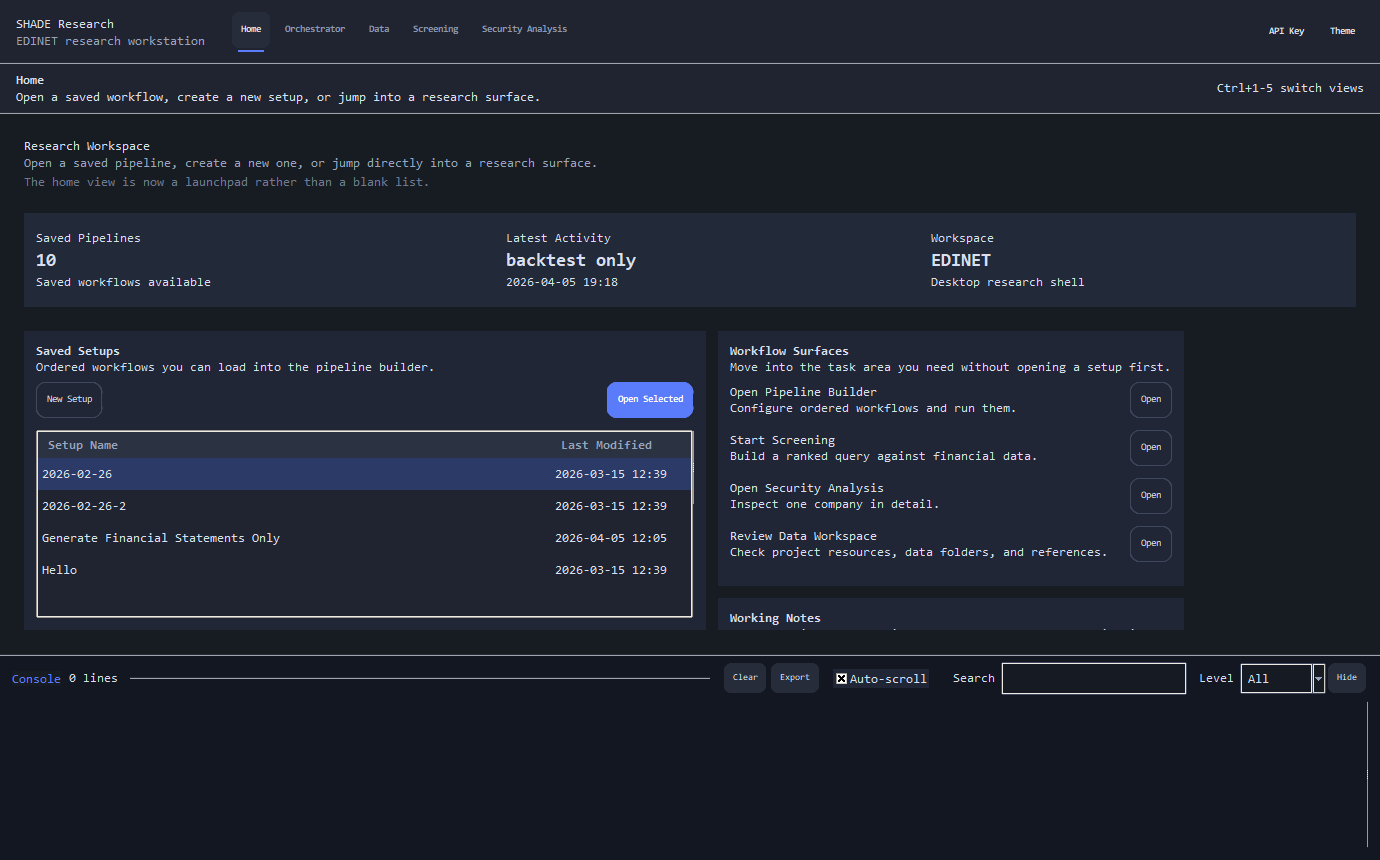
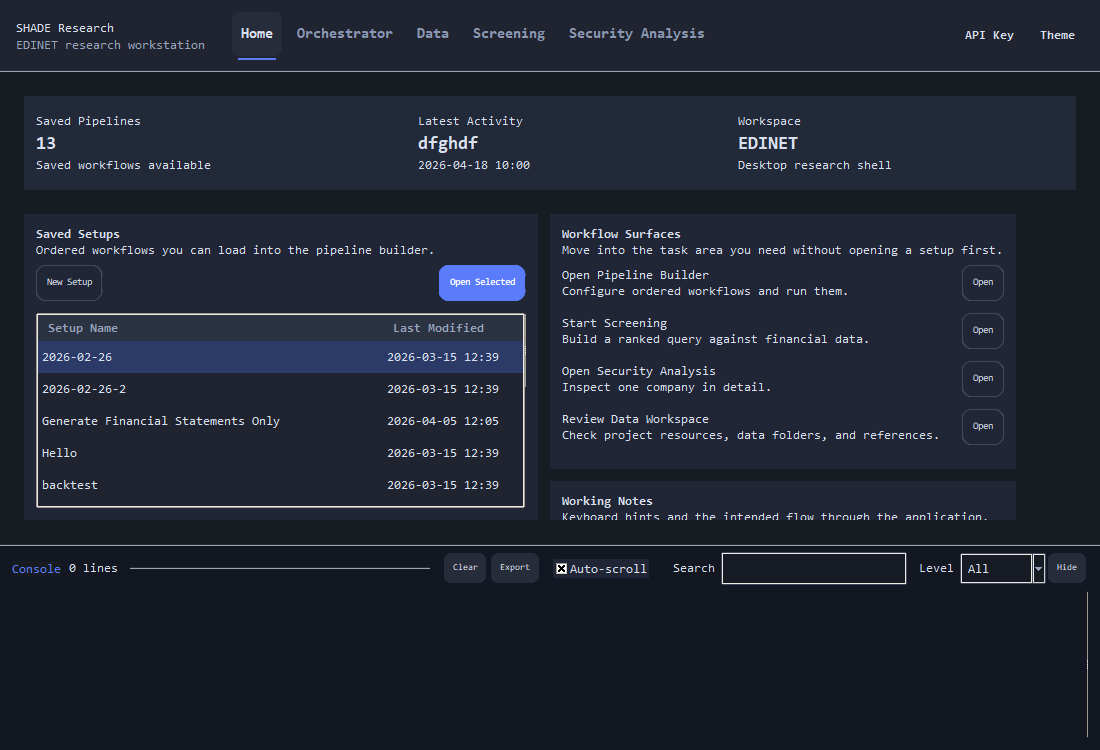
docs: Update Application Details and Readme with current project status and UI enhancements

diff --git a/docs/Application Details.md b/docs/Application Details.md
@@ -1,8 +1,8 @@
 
 # Python Source File Reference (Living Document)
 
-Last updated: 2026-04-06
-- Central reference for runtime/test Python modules (`src/`) and top-level scripts.
+Last updated: 2026-04-19
+- Central reference for runtime/test Python modules (`src/`), Tk UI modules (`ui_tk/`), and top-level scripts.
 - For each file: what it owns, available functions, input/output contract, and key dependencies/calls.
 - Designed to be updated continuously as functions are added/removed/changed.
 
@@ -24,6 +24,18 @@ Suggested per-function format:
 	- Inputs: ...
 	- Output: ...
 	- Calls/Dependencies: ...
+
+---
+
+## Current project status
+
+- Default interface: the Tk desktop shell launched by `python main.py` is the primary maintained UI.
+- Maintained top-level views: `Home`, `Orchestrator`, `Data`, `Screening`, and `Security Analysis`.
+- CLI mode remains supported through `python main.py --cli` for headless pipeline execution.
+- Architecture status: `src.orchestrator` is a thin dispatcher; backend modules remain largely decoupled from `Config` and are called with explicit parameters.
+- Mature user-facing workflows: ingestion, ETL, translation, ratio generation, backtesting, screening, and security analysis all have dedicated test coverage.
+- Partial surface: the Data Workspace is operational for navigation/resource inspection, but it is not yet a full analytical data browser.
+- Visual review workflow: screenshot capture tests save current UI images under `data/mockups/screenshots/`, and the curated README copies live under `docs/images/`.
 
 ---
 
@@ -178,6 +190,12 @@ Responsibility: ETL and transformation of EDINET raw data into normalized financ
 		- Output: None (writes/updates DB tables: `FinancialStatements`, `IncomeStatement`, `BalanceSheet`, `CashflowStatement`).
 		- Calls/Dependencies: `_load_financial_statement_mappings`, `_collect_financial_statement_filters`, `_resolve_table_name_in_schema`, `_build_source_relevance_predicate`, `_create_financial_statement_tables`, `_insert_base_financial_statements`, `_insert_statement_table_rows`, `conn.execute`, `conn.executescript`, `conn.commit`, `conn.close`, `logger.info`, `logger.warning`.
 
+	- `def populate_business_descriptions_en(self, target_database, providers_config, table_name="FinancialStatements", docid_column="docID", source_column="DescriptionOfBusiness", target_column="DescriptionOfBusiness_EN", source_language="ja", target_language="en", overwrite=False, batch_size=25) -> None`
+		- Purpose: Populate translated English business descriptions in the target statements table using an ordered fallback provider list.
+		- Inputs: `target_database`, `providers_config`, optional table/column names, source/target languages, `overwrite`, `batch_size`.
+		- Output: None (updates `target_column` in place, creating it when missing).
+		- Calls/Dependencies: `src.description_translation.load_translation_providers`, `src.description_translation.translate_text_with_providers`, `_resolve_table_name_in_schema`, `_resolve_column_name`, `_ensure_typed_table_columns`, `conn.execute`, `conn.commit`, `conn.close`, `logger.info`, `logger.warning`.
+
 	- `def generate_ratios(self, source_database, target_database, formulas_config, overwrite=False, batch_size=5000) -> None`
 		- Purpose: Compile configured formulas into `PerShare`/`Valuation`/`Quality` tables, resolving formula dependencies and executing updates in batches.
 		- Inputs: `source_database`, `target_database`, `formulas_config` (path), optional `overwrite`, `batch_size`.
@@ -195,6 +213,32 @@ Responsibility: ETL and transformation of EDINET raw data into normalized financ
 		- Inputs: `xsd_file` (path to XSD), `table_name`, optional `connection`, optional `db_path` (required when `connection` is not provided).
 		- Output: None (writes taxonomy rows to DB table).
 		- Calls/Dependencies: `ET.parse`, `_create_table`, `_insert_data`, `_adjust_string`, `conn.commit`, `conn.close`.
+
+---
+
+### [src/description_translation.py](src/description_translation.py)
+
+Responsibility: Ordered-fallback translation provider loading, text chunking, and provider execution used by `populate_business_descriptions_en`.
+
+- Provider types: `LibreTranslateProvider`, `MyMemoryProvider`, and `ArgosTranslateProvider`.
+- `class TranslationProviderConfig`
+	- Purpose: Immutable runtime configuration for a translation provider instance.
+
+- `def split_text_chunks(text: Any, chunk_char_limit: int = 700) -> list[list[str]]`
+	- Purpose: Normalize and split source text into paragraph-aware translation chunks that preserve sentence boundaries where possible.
+	- Inputs: raw `text`, optional `chunk_char_limit`.
+	- Output: Nested list of text chunks grouped by paragraph.
+
+- `def load_translation_providers(config_path: str) -> tuple[list[TranslationProvider], dict[str, Any]]`
+	- Purpose: Load enabled providers and shared translation settings from JSON.
+	- Inputs: `config_path` to the provider configuration file.
+	- Output: `(providers, settings)` where `settings` currently includes values such as `chunk_char_limit` and `row_delay_seconds`.
+
+- `def translate_text_with_providers(text: Any, providers: list[TranslationProvider], *, source_language: str = "ja", target_language: str = "en", chunk_char_limit: int = _DEFAULT_CHUNK_CHAR_LIMIT, session: requests.Session | None = None, retire_failed_providers: bool = False, log_context: str | None = None, log_provider_activity: bool = False, slow_request_warning_seconds: float | None = 10.0) -> tuple[str, str]`
+	- Purpose: Translate text using ordered provider fallback and return the translated text plus the provider name that succeeded.
+	- Inputs: source `text`, active `providers`, language options, chunk size, optional shared HTTP session, and logging/runtime controls.
+	- Output: `(translated_text, provider_name)`.
+	- Calls/Dependencies: `_clean_text_block`, `split_text_chunks`, provider `translate()`, `_retire_provider`, `requests.Session`, `logger.info`, `logger.warning`.
 
 ---
 
@@ -359,7 +403,7 @@ Responsibility: CLI / GUI entry point dispatcher.
 	- Calls/Dependencies: `setup_logging`, `orchestrator.run`.
 
 - `def _run_gui() -> None`
-	- Purpose: Launch the **default** Tkinter terminal-style GUI.
+	- Purpose: Launch the default Tk desktop GUI.
 	- Calls/Dependencies: `ui_tk.run_tk_app`.
 
 - Dispatch: `--cli` → `_run_cli()`, default → `_run_gui()`.
@@ -372,9 +416,7 @@ Responsibility: CLI / GUI entry point dispatcher.
 - Fill `Inputs`/`Output` sections with precise types and examples for frequently-changed helpers.
 - Add `Calls/Dependencies` entries when introducing new inter-module calls.
 
-If you'd like, I can now:
-- populate exact function signatures for each module by scanning the `src/` and `ui_tk/` files and inserting them here, or
-- convert private helpers into abbreviated summaries and keep public API entries fully expanded.
+This reference is intentionally concise. Expand signatures, examples, and dependency notes when you touch the corresponding modules.
 
 ---
 
@@ -385,13 +427,16 @@ If you'd like, I can now:
 Responsibility: Tk root bootstrap, view switching, event loop, and log handler wiring.
 
 `class App`
-	- Purpose: Top-level application controller; owns the Tk root, tab bar, log panel, and view switching.
+	- Purpose: Top-level application controller; owns the Tk root, branded top bar, log panel, view switching, and cross-view drill-ins.
 
 	- `def __init__(self, root: tk.Tk) -> None`
-		- Purpose: Initialise root window, apply theme, build layout (tab bar, views, log panel), wire log handler.
+		- Purpose: Initialise the root window, apply the active theme, build the shell layout, wire the log handler, and register `Ctrl+1..5` shortcuts.
 
 	- `def switch_view(self, name: str) -> None`
 		- Purpose: Switch between Home / Orchestrator / Data / Screening / Security Analysis views. Views are lazily created on first access.
+
+	- `def show_security_analysis(self, record: dict, db_path: str | None = None) -> None`
+		- Purpose: Switch to Security Analysis and open a company record selected from another view (currently the Screening results grid).
 
 - `def run_tk_app() -> None`
 	- Purpose: Public entry point — creates `Tk` root, instantiates `App`, and starts `root.mainloop()`.
@@ -401,12 +446,18 @@ Responsibility: Tk root bootstrap, view switching, event loop, and log handler w
 
 ### [ui_tk/style.py](../ui_tk/style.py)
 
-Responsibility: Terminal-style dark theme tokens and ttk.Style configuration.
+Responsibility: Dark/light theme tokens and ttk.Style configuration for the Tk desktop shell.
 
-- Constants: `COLORS` (dict — bg, surface, border, text, text_dim, accent, success, warning, error, highlight, input_bg), `MONO_FAMILY`, `FONT_MONO`, `FONT_MONO_BOLD`, `FONT_HEADING`, `FONT_SMALL`, `PAD`.
+- Constants: `COLORS` / `theme` (live palette dicts), typography tokens (`FONT_UI`, `FONT_UI_BOLD`, `FONT_HEADING`, `FONT_TITLE`, `FONT_SMALL`, etc.), and geometry tokens (`PAD`, `SHELL_PAD`, button radii).
+
+- `def is_dark() -> bool`
+	- Purpose: Return whether the active theme mode is dark.
+
+- `def toggle_theme(root: tk.Tk) -> str`
+	- Purpose: Switch between dark and light mode and re-apply ttk styles.
 
 - `def apply_theme(root: tk.Tk) -> ttk.Style`
-	- Purpose: Apply the terminal dark theme to the root window and all ttk widget styles (using "clam" base).
+	- Purpose: Apply the active theme to the root window and all ttk widget styles (using "clam" base).
 	- Inputs: `root`
 	- Output: Configured `ttk.Style`.
 
@@ -474,9 +525,10 @@ The step field registry (`STEP_FIELD_DEFINITIONS`) is the single source of truth
 
 - `def screening_get_metrics(db_path: str) -> dict[str, list[str]]` — Return available screening metrics.
 - `def screening_get_periods(db_path: str) -> list[str]` — Return available period years.
-- `def screening_run(db_path, criteria, columns, period, sort_by, sort_order) -> pd.DataFrame` — Run a screening query.
+- `def screening_run(db_path, criteria, columns, period, sort_by, sort_order, ranking_algorithm="none", ranking_rules=None) -> pd.DataFrame` — Run a screening query with optional weighted ranking.
 - `def screening_export(df, output_path) -> str` — Export results to CSV.
-- `def screening_save(name, criteria, columns, period) -> Path` — Save screening criteria.
+- `def screening_export_backtest(db_path, criteria, columns, output_path, period, max_companies, ranking_algorithm="none", ranking_rules=None, historical=False) -> str` — Export screening results in the CSV shape expected by `run_backtest_set`.
+- `def screening_save(name, criteria, columns, period, ranking_algorithm="none", ranking_rules=None) -> Path` — Save screening criteria and ranking state.
 - `def screening_load(name) -> dict` — Load saved screening criteria.
 - `def screening_list() -> list[str]` — List saved screening names.
 - `def screening_delete(name) -> None` — Delete a saved screening.
@@ -486,8 +538,9 @@ The step field registry (`STEP_FIELD_DEFINITIONS`) is the single source of truth
 #### Security Analysis Adapters
 
 - `def security_search(db_path: str, query: str, limit: int = 25) -> list[dict]` — Search securities by company name, ticker, EDINET code, or industry.
+- `def security_optimize_database(db_path: str) -> dict` — Create one-time indexes used by the Security Analysis workflow.
 - `def security_get_overview(db_path: str, edinet_code: str) -> dict` — Return company, market, fundamentals, valuation, and metadata for the selected security.
-- `def security_get_statements(db_path: str, edinet_code: str, periods: int = 8) -> dict` — Return ordered historical statement rows and period labels.
+- `def security_get_statements(db_path: str, edinet_code: str, periods: int = 8, statement_sources: dict[str, str] | None = None) -> dict` — Return ordered historical statement rows and period labels.
 - `def security_get_ratios(db_path: str, edinet_code: str) -> dict` — Return latest valuation and quality ratios.
 - `def security_get_price_history(db_path: str, ticker: str, start_date: str | None = None, end_date: str | None = None) -> list[dict]` — Return ordered daily price history rows.
 - `def security_get_peers(db_path: str, edinet_code: str, industry: str | None = None, limit: int = 10) -> list[dict]` — Return deterministic peer-comparison rows.
@@ -497,7 +550,12 @@ The step field registry (`STEP_FIELD_DEFINITIONS`) is the single source of truth
 
 ### [ui_tk/shared/widgets.py](../ui_tk/shared/widgets.py)
 
-Responsibility: Reusable terminal-styled composite widgets.
+Responsibility: Reusable composite widgets and display helpers used across the Tk shell.
+
+- `class RoundedButton` — Theme-aware button wrapper with `reapply_colors()` support for runtime theme toggles.
+- `class SearchableCombobox` — Combobox that filters its source list while the user types; used heavily for large metric/table lists.
+- `class PageHeader` — Standard page title/subtitle/actions strip used across top-level views.
+- `class SectionCard` / `class StatTile` / `class EmptyState` — Reusable layout primitives for dashboards and analysis surfaces.
 
 - `class LogPanel(ttk.Frame)` — Color-coded log output with auto-scroll, level filter, clear, and export.
 	- `def append(self, level: str, text: str)` — Append a log line (thread-safe).
@@ -518,9 +576,9 @@ Responsibility: Reusable terminal-styled composite widgets.
 
 ### [ui_tk/pages/home.py](../ui_tk/pages/home.py)
 
-Responsibility: Landing page — lists saved setups with modification dates, New/Open actions.
+Responsibility: Landing dashboard — saved setup inventory, quick workflow entry points, and working notes.
 
-- `class HomePage(ttk.Frame)` — Listbox of saved setups; double-click or [Open Selected] loads a setup and switches to Orchestrator view.
+- `class HomePage(ttk.Frame)` — Hero stats plus a saved-setups tree, quick actions into Orchestrator/Screening/Security Analysis/Data Workspace, and keyboard shortcut hints. Double-click or [Open Selected] loads a setup and switches to Orchestrator view.
 
 ---
 
@@ -538,29 +596,32 @@ Responsibility: Main pipeline builder — step list, per-step config panel, run/
 
 ### [ui_tk/pages/data.py](../ui_tk/pages/data.py)
 
-Responsibility: Data exploration page — placeholder ("coming soon").
+Responsibility: Data Workspace — project resources, reference assets, default database context, and quick navigation.
 
-- `class DataPage(ttk.Frame)` — Stub frame.
+- `class DataPage(ttk.Frame)` — Operational resource surface showing the default database, reference/output counts, stable project paths, and direct navigation into downstream workflows.
 
 ---
 
 ### [ui_tk/pages/screening.py](../ui_tk/pages/screening.py)
 
-Responsibility: Screening view — filter companies by financial criteria with sortable results.
+Responsibility: Screening workspace — filter, rank, export, and drill into candidate companies.
 
 - `class ScreeningPage(ttk.Frame)`
-	- Layout: horizontal PanedWindow with left panel (criteria builder) and right panel (results Treeview).
-	- Left panel: DatabasePickerEntry, period selector, dynamic criteria rows (metric/operator/value), column checkboxes, Run button.
-	- Right panel: sortable Treeview with alternating row colours, status bar.
-	- Toolbar: Load, Save, History, Export buttons.
+	- Layout: left builder surface plus right results grid.
+	- Left panel: `DatabasePickerEntry`, period selector, dynamic criteria rows, ranking rules, column selection, and run controls.
+	- Right panel: sortable Treeview with alternating row colours, result summary, and empty-state handling.
+	- Toolbar/actions: Load, Save, History, Export, Backtest Export, and raw/formatted value toggle.
 	- `def _on_db_changed(self)` — Refresh metrics/periods when database changes.
 	- `def _add_criterion(self)` / `def _remove_criterion(self, row_data)` — Manage criteria rows.
+	- `def _add_ranking_rule(self)` / `def _remove_ranking_rule(self, row_data)` — Manage weighted ranking rules.
 	- `def _run_screening(self)` — Collect inputs, run in background thread, populate results.
 	- `def _populate_results(self, df)` — Clear and fill Treeview with formatted values.
 	- `def _sort_by_column(self, col)` — Client-side sort with ascending/descending toggle.
+	- `def _on_company_click(self, event)` — Open the selected result in Security Analysis when a company row can be resolved.
 	- `def _save_screening(self)` / `def _load_screening(self)` — Save/load criteria dialogs.
 	- `def _show_history(self)` — History dialog with re-run support.
 	- `def _export_results(self)` — CSV export via file dialog.
+	- `def _export_backtest_results(self)` — Export a screening result set into the backtest-set CSV shape.
 	- `def reapply_colors(self)` — Theme toggle support.
 
 ---
@@ -571,11 +632,12 @@ Responsibility: Security-level research view — typeahead search, overview card
 
 - `class SecurityAnalysisPage(ttk.Frame)`
 	- Layout: toolbar (refresh/update), database picker + search, summary cards, and four tabs (`Overview`, `Statements`, `Charts`, `Peers`).
+	- Database optimization: when a DB is selected the view can request one-time index creation for large standardized databases.
 	- Search: debounced typeahead over company name, ticker, EDINET code, and industry with keyboard navigation for suggestions.
-	- Overview tab: company profile, fundamentals tree, ratio tree, and metadata panel.
-	- Statements tab: selectable statement type with historical period table.
-	- Charts tab: matplotlib-backed price, statement, and peer-comparison charts.
-	- Peers tab: default industry peers plus manual peer additions.
+	- Overview tab: company profile, business description display, fundamentals tree, ratio tree, and metadata panel.
+	- Statements tab: selectable statement/ratio source with historical period table and period-count selector.
+	- Charts tab: matplotlib-backed price, statement, and peer-comparison charts with table/column/timeframe/style controls and optional peer overlays.
+	- Peers tab: default industry peers plus manual peer additions and reset flows.
 	- `def reapply_colors(self)` — Re-apply colours for raw Tk widgets and redraw charts after theme changes.
 
 ---
@@ -590,6 +652,9 @@ Responsibility: Backend queries for the Security Analysis view. Resolves schema 
 - `def resolve_schema(db_path: str) -> SecuritySchema`
 	- Purpose: Resolve actual table and column names for `CompanyInfo`, `FinancialStatements`, `Stock_Prices`, optional statement/ratio tables, and optional `DocumentList` metadata when present, including fallback company-name fields used by the standardized database.
 
+- `def ensure_security_analysis_indexes(db_path: str) -> dict[str, Any]`
+	- Purpose: Create one-time indexes that accelerate Security Analysis search, overview, statement lookup, price history, and peer-comparison queries.
+
 - `def search_securities(db_path: str, query: str, limit: int = 25) -> list[dict[str, Any]]`
 	- Purpose: Search securities across name, ticker, EDINET code, and industry with deterministic ranking.
 
@@ -599,8 +664,8 @@ Responsibility: Backend queries for the Security Analysis view. Resolves schema 
 - `def get_security_ratios(db_path: str, edinet_code: str) -> dict[str, Any]`
 	- Purpose: Return latest valuation and quality ratios, including fallback calculations when direct valuation fields are missing.
 
-- `def get_security_statements(db_path: str, edinet_code: str, periods: int = 8) -> dict[str, Any]`
-	- Purpose: Return ordered historical statement rows for the Income Statement, Balance Sheet, and Cashflow Statement.
+- `def get_security_statements(db_path: str, edinet_code: str, periods: int = 8, statement_sources: dict[str, str] | None = None) -> dict[str, Any]`
+	- Purpose: Return ordered historical statement rows for the requested financial statement and ratio sources.
 
 - `def get_security_price_history(db_path: str, ticker: str, start_date: str | None = None, end_date: str | None = None) -> list[dict[str, Any]]`
 	- Purpose: Return ordered daily price history rows for charting and change calculations.
@@ -617,15 +682,16 @@ Responsibility: Backend queries for the Security Analysis view. Resolves schema 
 
 Responsibility: Backend screening module — query building, execution, persistence, and formatting. Contains no UI logic.
 
-- Constants: `SCREENING_TABLES`, `OPERATOR_MAP`, `DEFAULT_COLUMNS`, `FORMAT_RULES`.
+- Constants: `SCREENING_TABLES`, `OPERATOR_MAP`, `DEFAULT_COLUMNS`, `FORMAT_RULES`, ranking-related constants, and column alias helpers.
 
 - `def get_available_metrics(db_path: str) -> dict[str, list[str]]` — Introspect DB for screening table columns.
 - `def get_available_periods(db_path: str) -> list[str]` — Return distinct periodEnd years.
-- `def build_screening_query(criteria, columns, period=None, available_metrics=None) -> tuple[str, list]` — Build parameterised SQL with validation.
-- `def run_screening(db_path, criteria, columns, period=None, sort_by=None, sort_order="ASC") -> pd.DataFrame` — Execute screening and return results.
+- `def build_screening_query(criteria: list[dict], columns: list[str], period: str | None = None, available_metrics: dict[str, list[str]] | None = None, column_aliases: dict[str, str] | None = None) -> tuple[str, list]` — Build parameterised SQL with validation.
+- `def run_screening(db_path: str, criteria: list[dict], columns: list[str], period: str | None = None, sort_by: str | None = None, sort_order: str = "ASC", ranking_algorithm: str = "none", ranking_rules: list[dict] | None = None) -> pd.DataFrame` — Execute screening, apply optional ranking, and return results.
+- `def export_screening_to_backtest_csv(db_path: str, criteria: list[dict], columns: list[str], output_path: str, period: str | None = None, max_companies: int = 25, ranking_algorithm: str = "none", ranking_rules: list[dict] | None = None, historical: bool = False) -> str` — Export screening results in the CSV format used by `run_backtest_set`.
 - `def export_screening_to_csv(df, output_path) -> str` — Export DataFrame to CSV.
-- `def format_financial_value(value, column_name) -> str` — Format values for display (percent/currency/ratio).
-- `def save_screening_criteria(name, criteria, columns, period, save_dir) -> Path` — Persist criteria as JSON.
+- `def format_financial_value(value, column_name: str, formatted: bool = False) -> str` — Format values for display or return the raw representation used by the UI toggle.
+- `def save_screening_criteria(name: str, criteria: list[dict], columns: list[str], period: str | None, save_dir: str, ranking_algorithm: str = "none", ranking_rules: list[dict] | None = None) -> Path` — Persist criteria and ranking state as JSON.
 - `def load_screening_criteria(name, save_dir) -> dict` — Load saved criteria.
 - `def list_saved_screenings(save_dir) -> list[str]` — List saved screening names.
 - `def delete_screening_criteria(name, save_dir) -> None` — Delete saved criteria.
@@ -640,10 +706,12 @@ Responsibility: Unit tests covering core logic and UI helpers. Each test file ta
 
 - `[tests/test_backtesting.py](tests/test_backtesting.py)` — tests backtest data retrieval, calculations, report and chart generation, and end-to-end `run_backtest` flows.
 - `[tests/test_data_processing.py](tests/test_data_processing.py)` — tests `data` ETL methods, formula compilation, historical ratio generation, and XSD parsing helpers.
+- `[tests/test_description_translation.py](tests/test_description_translation.py)` — tests translation chunking, provider loading, provider fallback behaviour, and error handling.
 - `[tests/test_edinet_api.py](tests/test_edinet_api.py)` — tests `Edinet` wrapper methods including download, unzip, CSV ingestion and DB interactions.
 - `[tests/test_regression_analysis.py](tests/test_regression_analysis.py)` — tests OLS runner, scoring query builder, and results writer.
 - `[tests/test_security_analysis.py](tests/test_security_analysis.py)` — tests schema normalization, search ranking, overview payloads, price history, peer selection, and single-ticker price updates.
 - `[tests/test_stockprice_api.py](tests/test_stockprice_api.py)` — tests CSV import and stock price ingestion logic.
+- `[tests/test_ui_screenshots.py](tests/test_ui_screenshots.py)` — launches the real Tk application, navigates the maintained views, and saves screenshots to `data/mockups/screenshots/` for visual review.
 - `[tests/test_ui_tk_smoke.py](tests/test_ui_tk_smoke.py)` — Tk UI smoke tests: imports, theme application, widget instantiation, controller functions, QueueLogHandler, ScreeningPage, and SecurityAnalysisPage.
 - `[tests/test_screening.py](tests/test_screening.py)` — Backend screening tests: query building, execution, persistence, formatting, SQL injection prevention.
 - `[tests/test_orchestrator.py](tests/test_orchestrator.py)` — Orchestrator tests: `run_pipeline` basic flow, cancellation, error handling, `execute_step` dispatch, `validate_config`, `Config.from_dict` independence and singleton behaviour.
@@ -651,7 +719,7 @@ Responsibility: Unit tests covering core logic and UI helpers. Each test file ta
 
 ---
 
-Last updated: 2026-04-06
+Last updated: 2026-04-19
 
-If you want, I can now auto-populate parameter types and short example inputs/outputs for every function (more verbose), or keep the current concise API listings. Which do you prefer?
+Keep this document aligned with code changes in the same PR or commit.
 

diff --git a/docs/Readme.md b/docs/Readme.md
@@ -2,12 +2,22 @@
 
 Downloads financial filings from the Japanese securities regulator (EDINET), processes them into a structured SQLite database, and runs statistical analysis to identify relationships between financial ratios and stock valuations.
 
+The primary maintained interface is the Tk desktop application shown in the screenshots below. In-app it is branded as `SHADE Research — EDINET` and currently exposes five top-level workspaces: Home, Orchestrator, Data Workspace, Screening, and Security Analysis.
+
 Each pipeline step is configured independently, including its source or target database path where applicable.
 
-## Quick Start (Alpha Release)
+## Current Status
+
+- **Primary UI** – the Tk desktop application is the default experience and the actively maintained GUI surface.
+- **Research surfaces** – Screening and Security Analysis are now first-class views for candidate discovery and single-company research.
+- **Operational workspace** – the Data view is no longer a placeholder; it summarizes project resources, reference assets, and output locations.
+- **Headless runs** – the CLI path remains supported through `python main.py --cli`.
+- **Documentation screenshots** – the README gallery is mirrored from the live screenshot capture flow used by `tests/test_ui_screenshots.py`.
+
+## Quick Start
 
 1. Download the latest release from [Releases](https://github.com/TiagoDeMatosDias/EDINET/releases)
-2. Extract `EDINET-0.1.0-alpha.zip`
+2. Extract the latest release archive for your platform
 3. Copy `config/examples/run_config.example.json` to `config/state/run_config.json` and configure your settings
 4. Create a `.env` file with your API keys (see Setup section below)
 5. Run `EDINET.exe` (Windows) or the binary for your OS
@@ -27,27 +37,32 @@ Each pipeline step is configured independently, including its source or target d
 11. **Multivariate regression** – user-defined multivariate OLS regression specified as a SQL query.
 12. **Backtest** – portfolio backtesting with weighted returns, dividend adjustment, and optional benchmark comparison.
 13. **Backtest set** – batch-runs 1/2/3/5/10-year backtests from a CSV of yearly portfolio selections.
-14. **Screening** – filter companies by financial criteria (valuation, quality, per-share metrics) with sortable results, CSV export, and saved criteria management.
-15. **Security analysis** – inspect a single company with typeahead search, overview cards, statement history, charts, price refresh, and peer comparison. When available, the view prefers the translated `DescriptionOfBusiness_EN` text from `FinancialStatements`.
+14. **Screening** – filter companies by financial criteria (valuation, quality, per-share metrics), apply weighted ranking rules, review sortable results, toggle raw or formatted value display, save/load criteria, inspect screening history, export CSVs, or generate backtest-set CSV inputs.
+15. **Security analysis** – inspect a single company with typeahead search, overview cards, translated/original business description display, statement history, charts, price refresh, and peer comparison. When available, the view prefers the translated `DescriptionOfBusiness_EN` text from `FinancialStatements`.
 
 ## Screenshots
 
-Current captures from the live Tk application. The gallery below shows the main workspaces in both dark and light themes using the latest images refreshed into `docs/images/`.
+Current captures from the live Tk desktop application. The gallery below shows the current shell and five maintained workspaces in both dark and light themes using the latest images mirrored into `docs/images/`.
 
 | View | Dark | Light |
 |---|---|---|
 | Home | <img src="images/ui-home-dark.png" alt="EDINET Home dark theme" width="420"> | <img src="images/ui-home-light.png" alt="EDINET Home light theme" width="420"> |
 | Orchestrator | <img src="images/ui-orchestrator-dark.png" alt="EDINET Orchestrator dark theme" width="420"> | <img src="images/ui-orchestrator-light.png" alt="EDINET Orchestrator light theme" width="420"> |
-| Data | <img src="images/ui-data-dark.png" alt="EDINET Data dark theme" width="420"> | <img src="images/ui-data-light.png" alt="EDINET Data light theme" width="420"> |
+| Data Workspace | <img src="images/ui-data-dark.png" alt="EDINET Data Workspace dark theme" width="420"> | <img src="images/ui-data-light.png" alt="EDINET Data Workspace light theme" width="420"> |
 | Screening | <img src="images/ui-screening-dark.png" alt="EDINET Screening dark theme" width="420"> | <img src="images/ui-screening-light.png" alt="EDINET Screening light theme" width="420"> |
 | Security Analysis | <img src="images/ui-security-analysis-dark.png" alt="EDINET Security Analysis dark theme" width="420"> | <img src="images/ui-security-analysis-light.png" alt="EDINET Security Analysis light theme" width="420"> |
+
+- **Home** – saved pipeline dashboard, quick workflow entry points, and working notes.
+- **Orchestrator** – ordered pipeline builder with per-step configuration and live execution controls.
+- **Data Workspace** – project paths, reference assets, state files, and output-folder summaries.
+- **Screening** – criteria and ranking builder, saved/history/export actions, and drill-in to single-company analysis.
+- **Security Analysis** – overview, statements, charts, peer comparison, and price-refresh workflows.
 
 ## GUI & CLI Modes
 
 The application can run in two modes:
 
-- **GUI mode** (default) — Launch the Tk desktop application with `python main.py`. The GUI provides keyboard-friendly step ordering, per-step configuration panels, setup save/load, and a live log output panel.
-- **Security Analysis view** — Search by company name, ticker, EDINET code, or industry and inspect one company in detail.
+- **GUI mode** (default) — Launch the Tk desktop application with `python main.py`. The GUI provides five workspace views, keyboard navigation (`Ctrl+1..5`), per-step configuration panels, setup save/load, a theme toggle, and a live log output panel.
 - **CLI mode** — Run headless from the terminal with `python main.py --cli`. This reads `config/state/run_config.json` directly and executes the enabled steps in order.
 
 ## Setup
@@ -172,15 +187,20 @@ It will look for `config/` and `.env` in the same folder as the exe.
 
 The Tk-based GUI provides:
 
+- **Home dashboard** – list saved pipelines with modification dates, open existing setups, create new ones, and jump directly into the main workflow surfaces.
+- **Top-level workspace navigation** – switch between Home, Orchestrator, Data Workspace, Screening, and Security Analysis with `Ctrl+1..5`.
+- **Theme toggle** – switch between dark and light mode without restarting the app.
 - **API Key dialog** – securely set the EDINET API key without editing `.env` manually.
 - **Type-to-filter dropdowns** – comboboxes across the app support partial-match filtering to make large table and column lists faster to navigate.
 - **Step ordering controls** – reorder pipeline steps with keyboard shortcuts (`Alt+Up` / `Alt+Down`) and contextual actions.
 - **Per-step enable/disable** – check or uncheck each step.
 - **Per-step configuration panel** – configure each step (including database paths and advanced options) in the side panel.
 - **Overwrite toggle** – steps that support it (Generate Financial Statements, Populate Business Descriptions (EN), Generate Ratios, Generate Historical Ratios) show an "Overwrite" checkbox.
+- **Data workspace** – review the current default database, reference assets, stable config/state paths, and common output folders before moving into another workflow.
+- **Screening workspace** – build filter and ranking rules, sort results, toggle raw/formatted values, save/load criteria, inspect run history, export CSVs, export backtest-set company lists, and open Security Analysis directly from a result row.
 - **Save / Load setups** – persist and recall named configurations from `config/state/saved_setups/`.
 - **Live log output** – see real-time log messages during execution in the output panel.
-- **Security analysis** – search companies, inspect statements and ratios, view interactive charts, toggle peer visibility from chart legends, refresh prices, compare peers, and jump directly from screening or peer lists.
+- **Security analysis** – search companies by company name, ticker, EDINET code, or industry; inspect statements and ratios; review translated or original business descriptions; view charts; refresh prices; compare peers; and jump directly from screening results.
 
 ## Key EDINET document type codes
 
